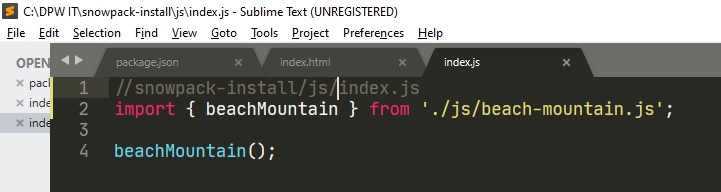
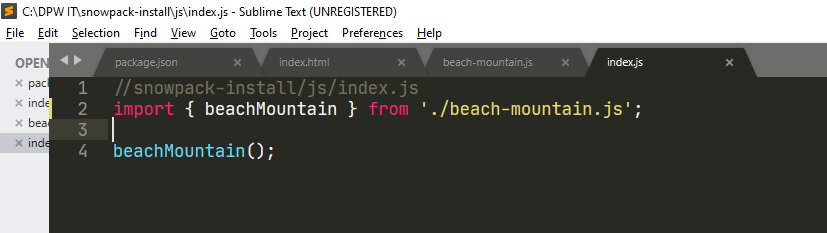
Fix error in code to resolve 404

Changed region(s): [[0.0, 0.0, 1.0, 1.0], [0.1526, 0.75, 0.3662, 0.8438]]

diff --git a/index.html b/index.html
@@ -8,6 +8,6 @@
   </head>
   <body>
     <h1>Welcome to Snowpack</h1>
-    <script type="module" src="/js/index.js"></script>
+    <script type="module" src="js/index.js"></script>
   </body>
 </html>

diff --git a/js/index.js b/js/index.js
@@ -1,4 +1,4 @@
 //snowpack-install/js/index.js
-import { beachMountain } from './js/beach-mountain.js';
+import { beachMountain } from './beach-mountain.js';
 
 beachMountain();
